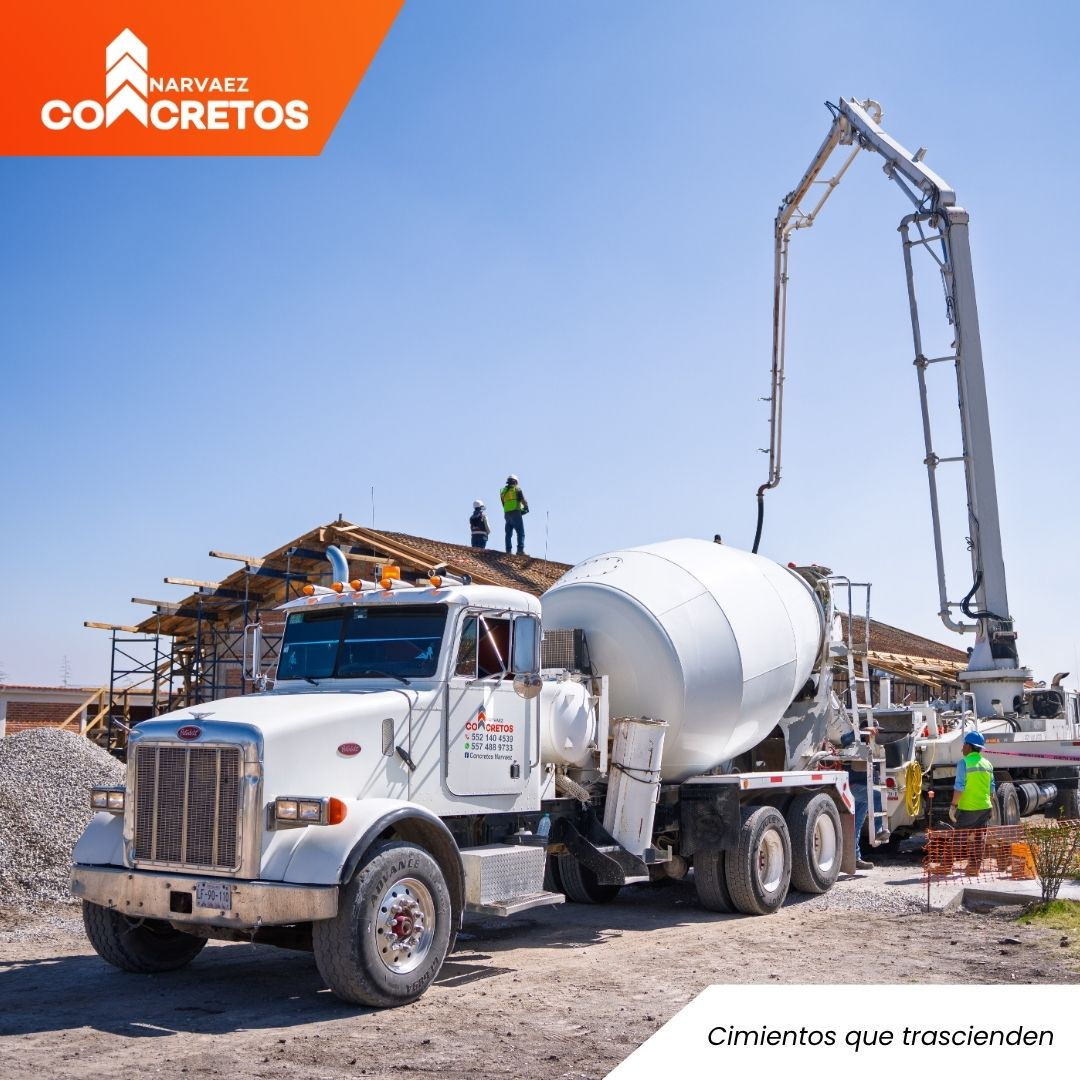
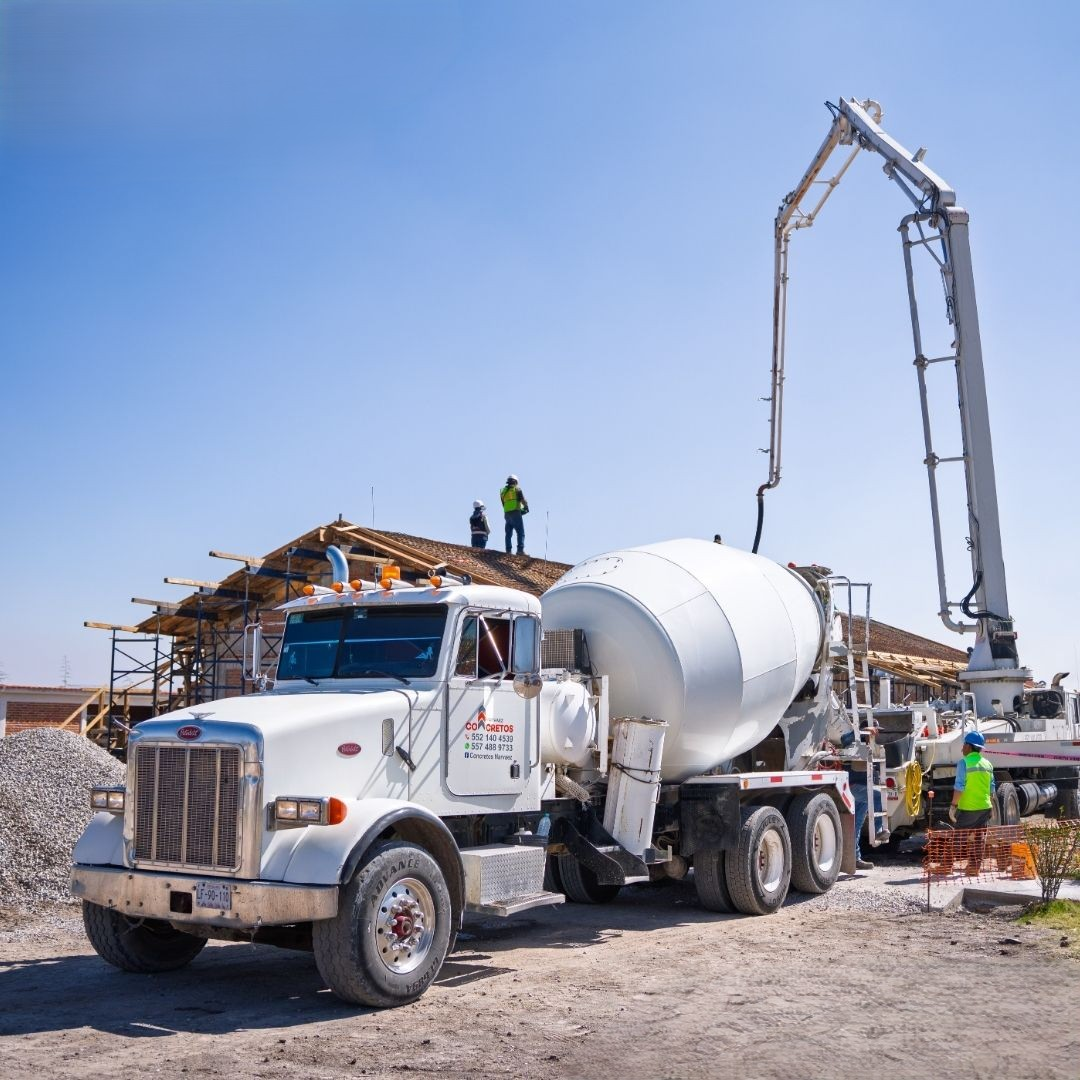
Narváez video

Changed region(s): [[0.5194, 0.8861, 1.0, 1.0], [0.0, 0.0, 0.3972, 0.1528]]

diff --git a/src/components/Hero.tsx b/src/components/Hero.tsx
@@ -1,23 +1,56 @@
 "use client";
 
-import Image from "next/image";
+import { useEffect, useRef } from "react";
 import { motion } from "framer-motion";
-import { CONFIG, heroImageSrc } from "@/config";
+import { CONFIG, heroVideoSrc } from "@/config";
 
 export function Hero() {
+  const videoRef = useRef<HTMLVideoElement>(null);
+
+  useEffect(() => {
+    const video = videoRef.current;
+    if (!video) return;
+
+    const motionQuery = window.matchMedia("(prefers-reduced-motion: reduce)");
+
+    const syncPlayback = () => {
+      if (motionQuery.matches) {
+        video.pause();
+        return;
+      }
+      void video.play().catch(() => {});
+    };
+
+    syncPlayback();
+    video.addEventListener("loadeddata", syncPlayback);
+    motionQuery.addEventListener("change", syncPlayback);
+    return () => {
+      video.removeEventListener("loadeddata", syncPlayback);
+      motionQuery.removeEventListener("change", syncPlayback);
+    };
+  }, []);
+
   return (
     <section
       id="inicio"
       className="relative flex min-h-screen min-h-[100dvh] w-full max-w-full items-center justify-center overflow-x-hidden bg-black"
+      aria-label={`${CONFIG.companyDisplayName} — inicio`}
     >
-      <Image
-        src={heroImageSrc()}
-        alt={`${CONFIG.companyDisplayName} — planta de concreto premezclado y cobertura en Jilotepec, Estado de México`}
-        fill
-        priority
-        sizes="100vw"
-        className="tepexi-hero-video pointer-events-none absolute inset-0 z-0 object-cover object-center"
-      />
+      <div className="pointer-events-none absolute inset-0 z-0 overflow-hidden" aria-hidden>
+        <video
+          ref={videoRef}
+          className="tepexi-hero-video"
+          autoPlay
+          muted
+          loop
+          playsInline
+          preload="auto"
+          disablePictureInPicture
+          disableRemotePlayback
+        >
+          <source src={heroVideoSrc()} type="video/mp4" />
+        </video>
+      </div>
       <div className="pointer-events-none absolute inset-0 z-[1] bg-gradient-to-b from-[#3d3d3d]/58 via-[#3d3d3d]/34 to-black/45" />
 
       <div className="relative z-10 mx-auto w-full min-w-0 max-w-5xl px-3 pt-28 pb-16 text-center sm:px-4 sm:pt-32">

diff --git a/src/app/globals.css b/src/app/globals.css
@@ -108,13 +108,22 @@ body {
 }
 
 /**
- * Capa de vídeo a pantalla completa: promoción a compositor para menos repintado al hacer scroll.
+ * Vídeo hero a pantalla completa: cover en móvil, tablet y desktop (object-fit + min dimensions).
  */
 .tepexi-hero-video {
+  position: absolute;
+  inset: 0;
+  width: 100%;
+  height: 100%;
+  min-width: 100%;
+  min-height: 100%;
+  object-fit: cover;
+  object-position: center;
   transform: translateZ(0);
   backface-visibility: hidden;
   -webkit-backface-visibility: hidden;
 }
+
 
 /** Barra fija: fondo opaco en lugar de backdrop-filter (blur repinta encima de todo el viewport). */
 .tepexi-nav-shell {

diff --git a/src/config.ts b/src/config.ts
@@ -1,6 +1,6 @@
-/** Ruta del hero en /public (sin query: Next Image exige `localPatterns` para `?`). */
-export function heroImageSrc(): string {
-  return "/Hero1.jpg";
+/** Vídeo de fondo del hero en /public */
+export function heroVideoSrc(): string {
+  return "/Concretos%20Narv%C3%A1ez.mp4";
 }
 
 export const CONFIG = {

diff --git a/src/app/layout.tsx b/src/app/layout.tsx
@@ -1,6 +1,6 @@
 import type { Metadata } from "next";
 import { DM_Sans, Oswald } from "next/font/google";
-import { heroImageSrc } from "@/config";
+import { heroVideoSrc } from "@/config";
 import "./globals.css";
 
 const dmSans = DM_Sans({
@@ -47,7 +47,7 @@ export default function RootLayout({
   return (
     <html lang="es-MX" className={`${dmSans.variable} ${oswald.variable} h-full antialiased`}>
       <head>
-        <link rel="preload" href={heroImageSrc()} as="image" />
+        <link rel="preload" href={heroVideoSrc()} as="video" type="video/mp4" />
       </head>
       <body
         suppressHydrationWarning